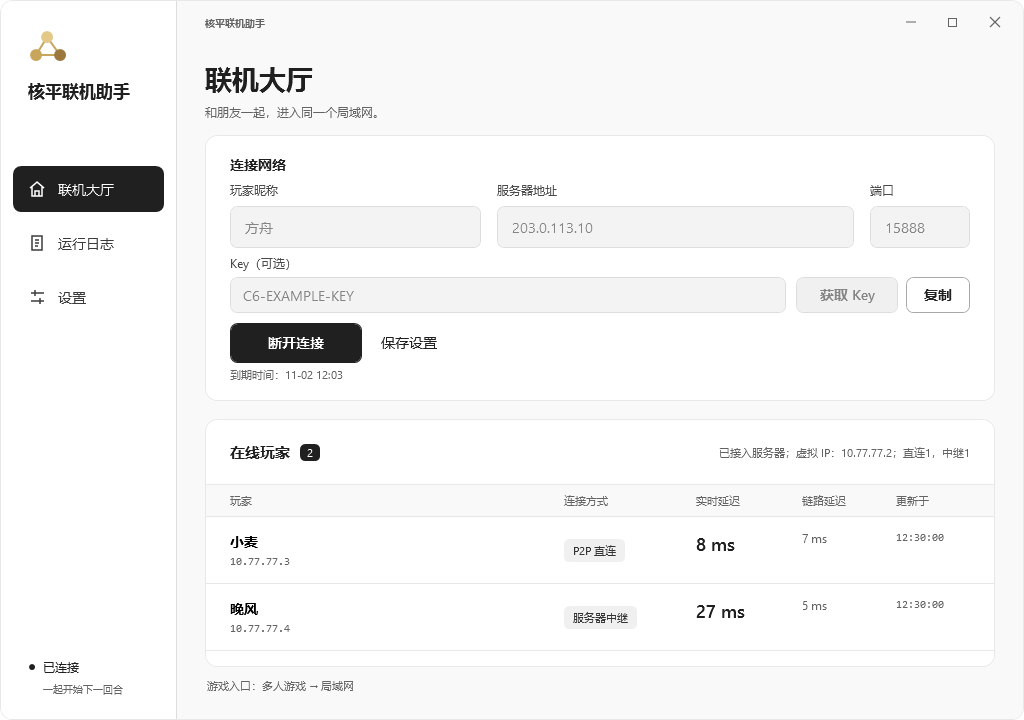
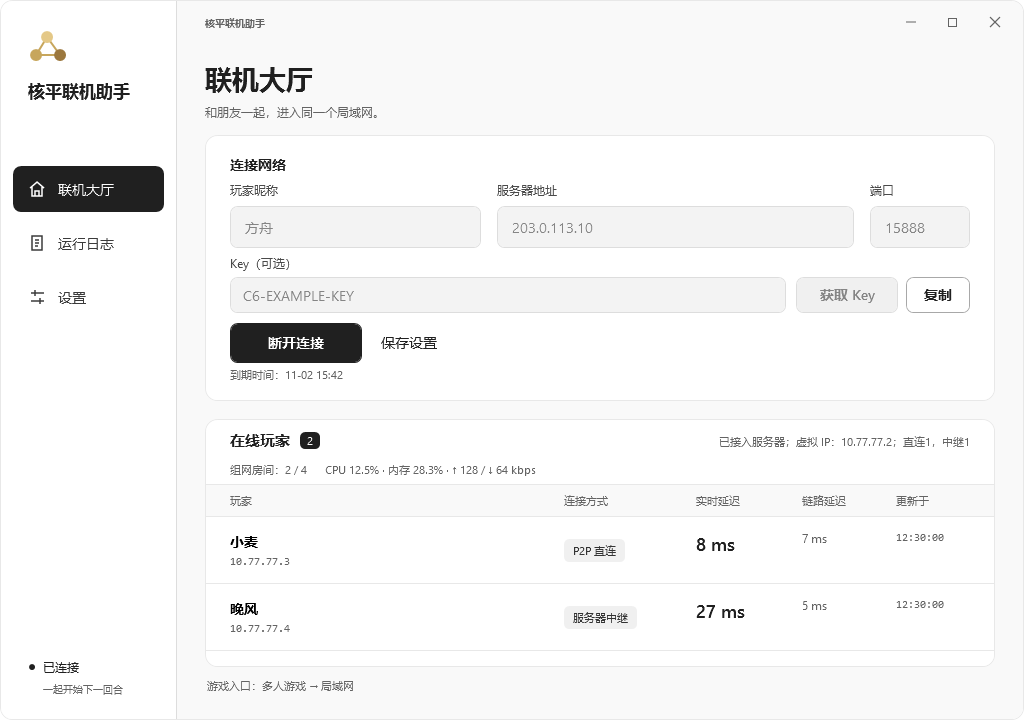
Show server status in client guide screenshots

Changed region(s): [[0.6875, 0.6111, 0.9375, 0.6417], [0.2188, 0.5806, 0.3125, 0.6722], [0.3125, 0.6417, 0.5312, 0.6722]]

diff --git a/README.md b/README.md
@@ -8,7 +8,7 @@
 
 客户端提供 **黑白** 与 **文明6** 两套主题，可在 **设置 → 外观** 即时切换并自动保存。文明6主题使用深灰蓝侧栏、柔和金色选中项与羊皮纸背景。主题说明见 [外观主题](docs/client-themes.md)。下方截图展示黑白主题。
 
-截图中的昵称、IP 和延迟均为演示数据。
+截图中的昵称、IP、延迟和服务器状态均为演示数据。
 
 ## Windows 快速开始
 
